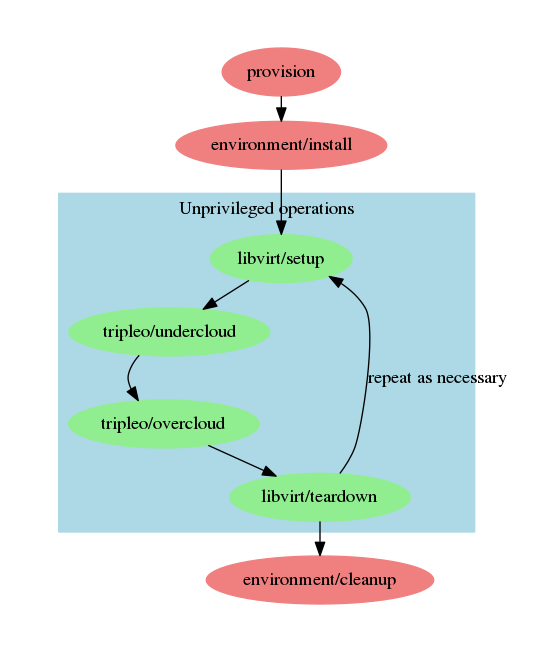
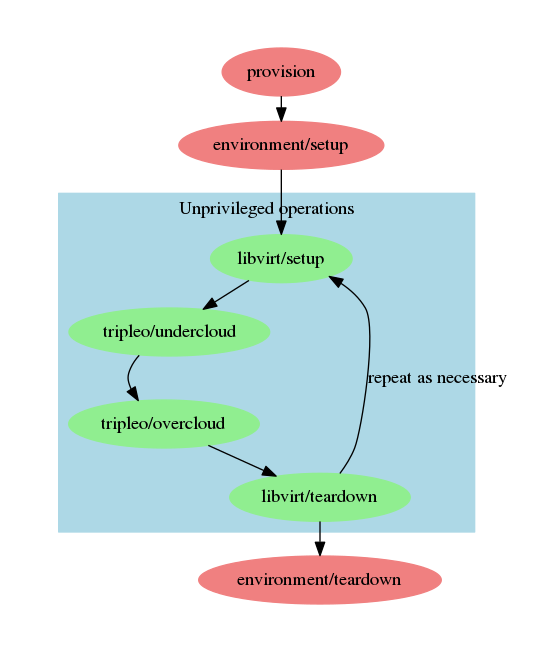
reflect new role names

diff --git a/README.md b/README.md
@@ -40,7 +40,7 @@ and user accounts to run the quickstart:
   be used by an unprivileged user.
 
 This role only needs to be run once on your target host (unless you
-run the `environment/cleanup` role).
+run the `environment/teardown` role).
 
 Inventory after role completes:
 
@@ -113,7 +113,7 @@ Inventory after role completes:
 
 :exclamation: This role requires privileged access to the target host.
 
-Reverses most of the changes made by the `environment/install` role.
+Reverses most of the changes made by the `environment/setup` role.
 
 - Destroy libvirt networks created by tripleo-quickstart and removes
   associated configuration from the qemu bridge helper
